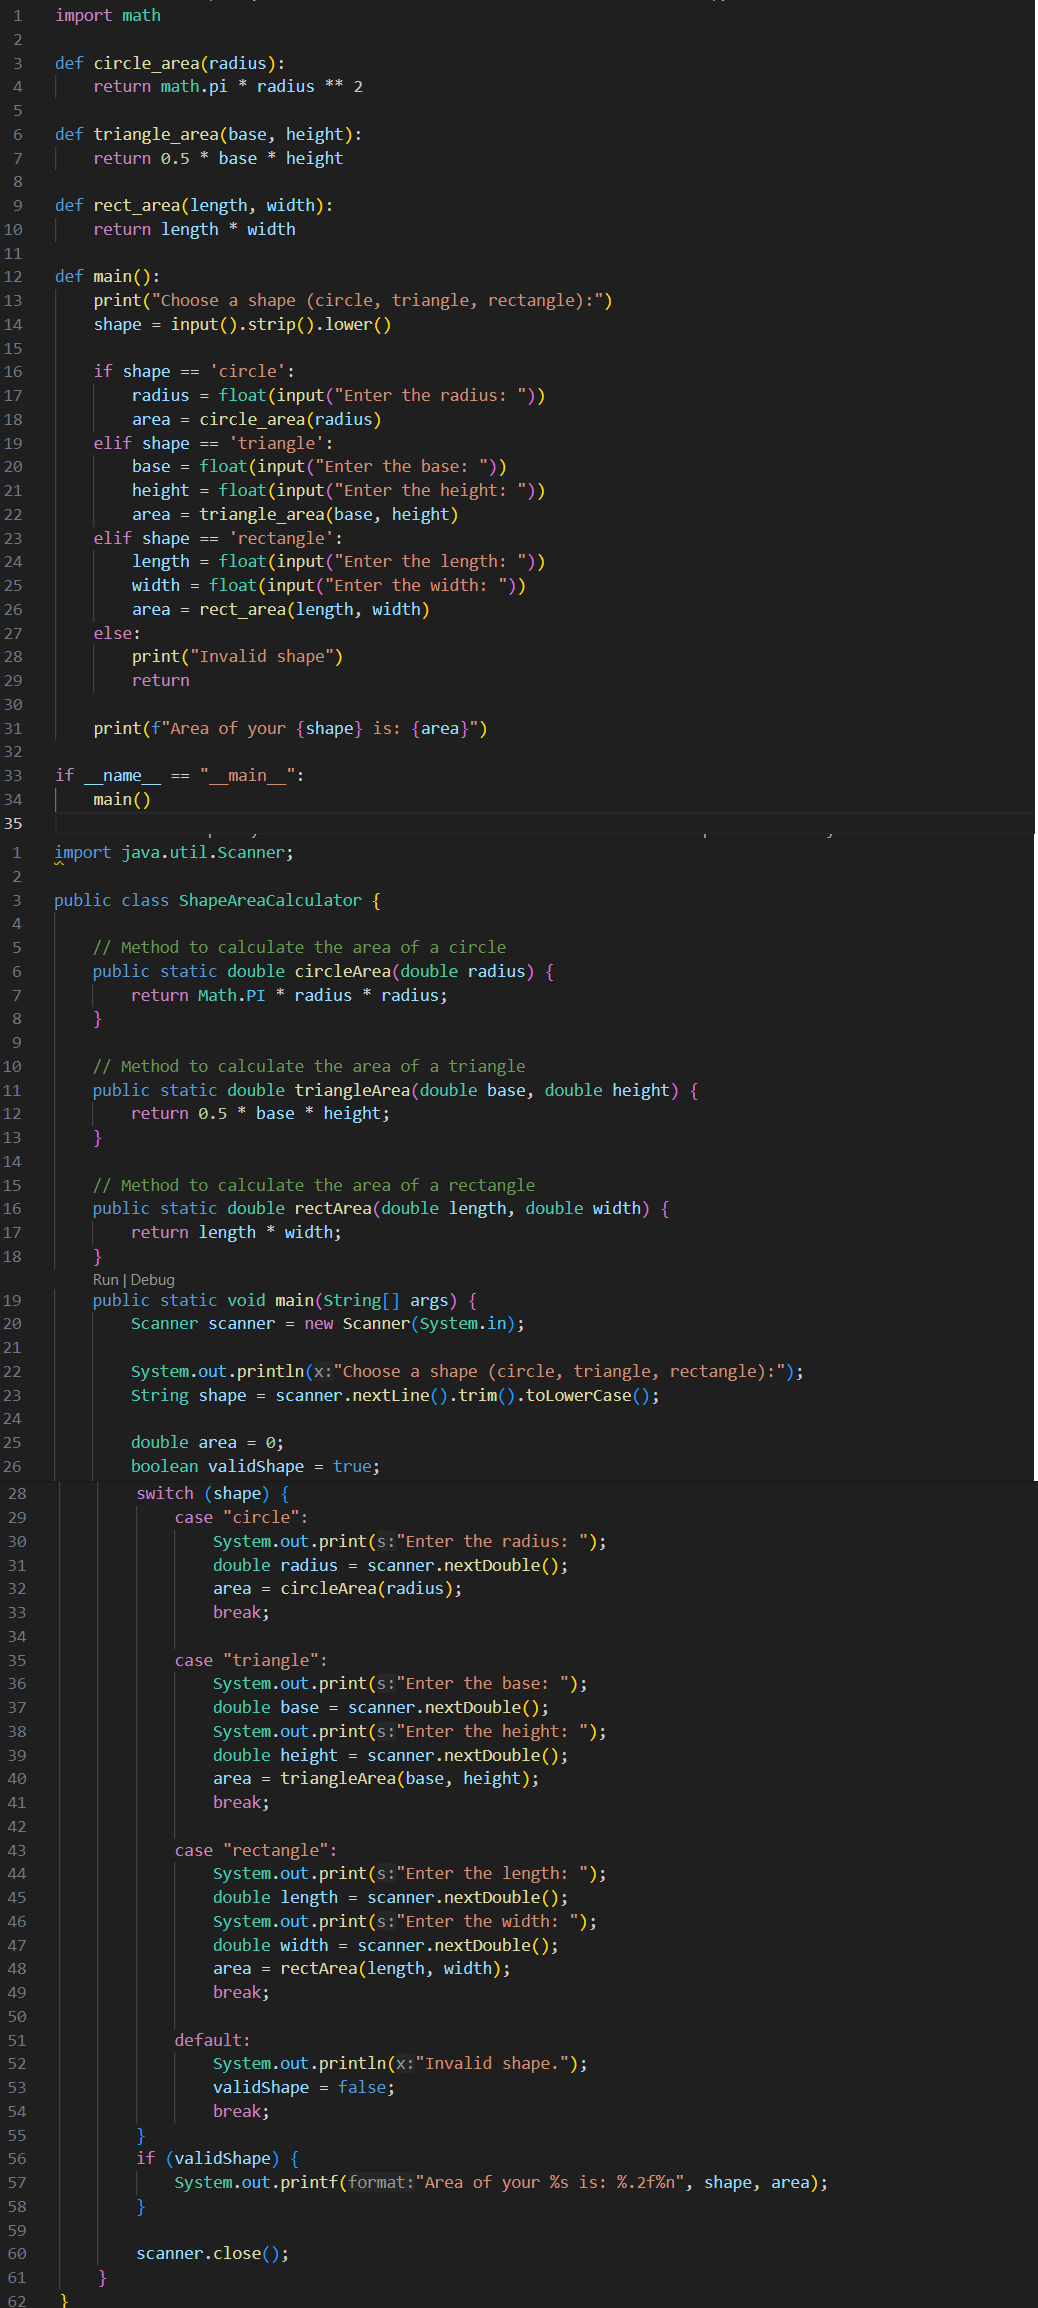
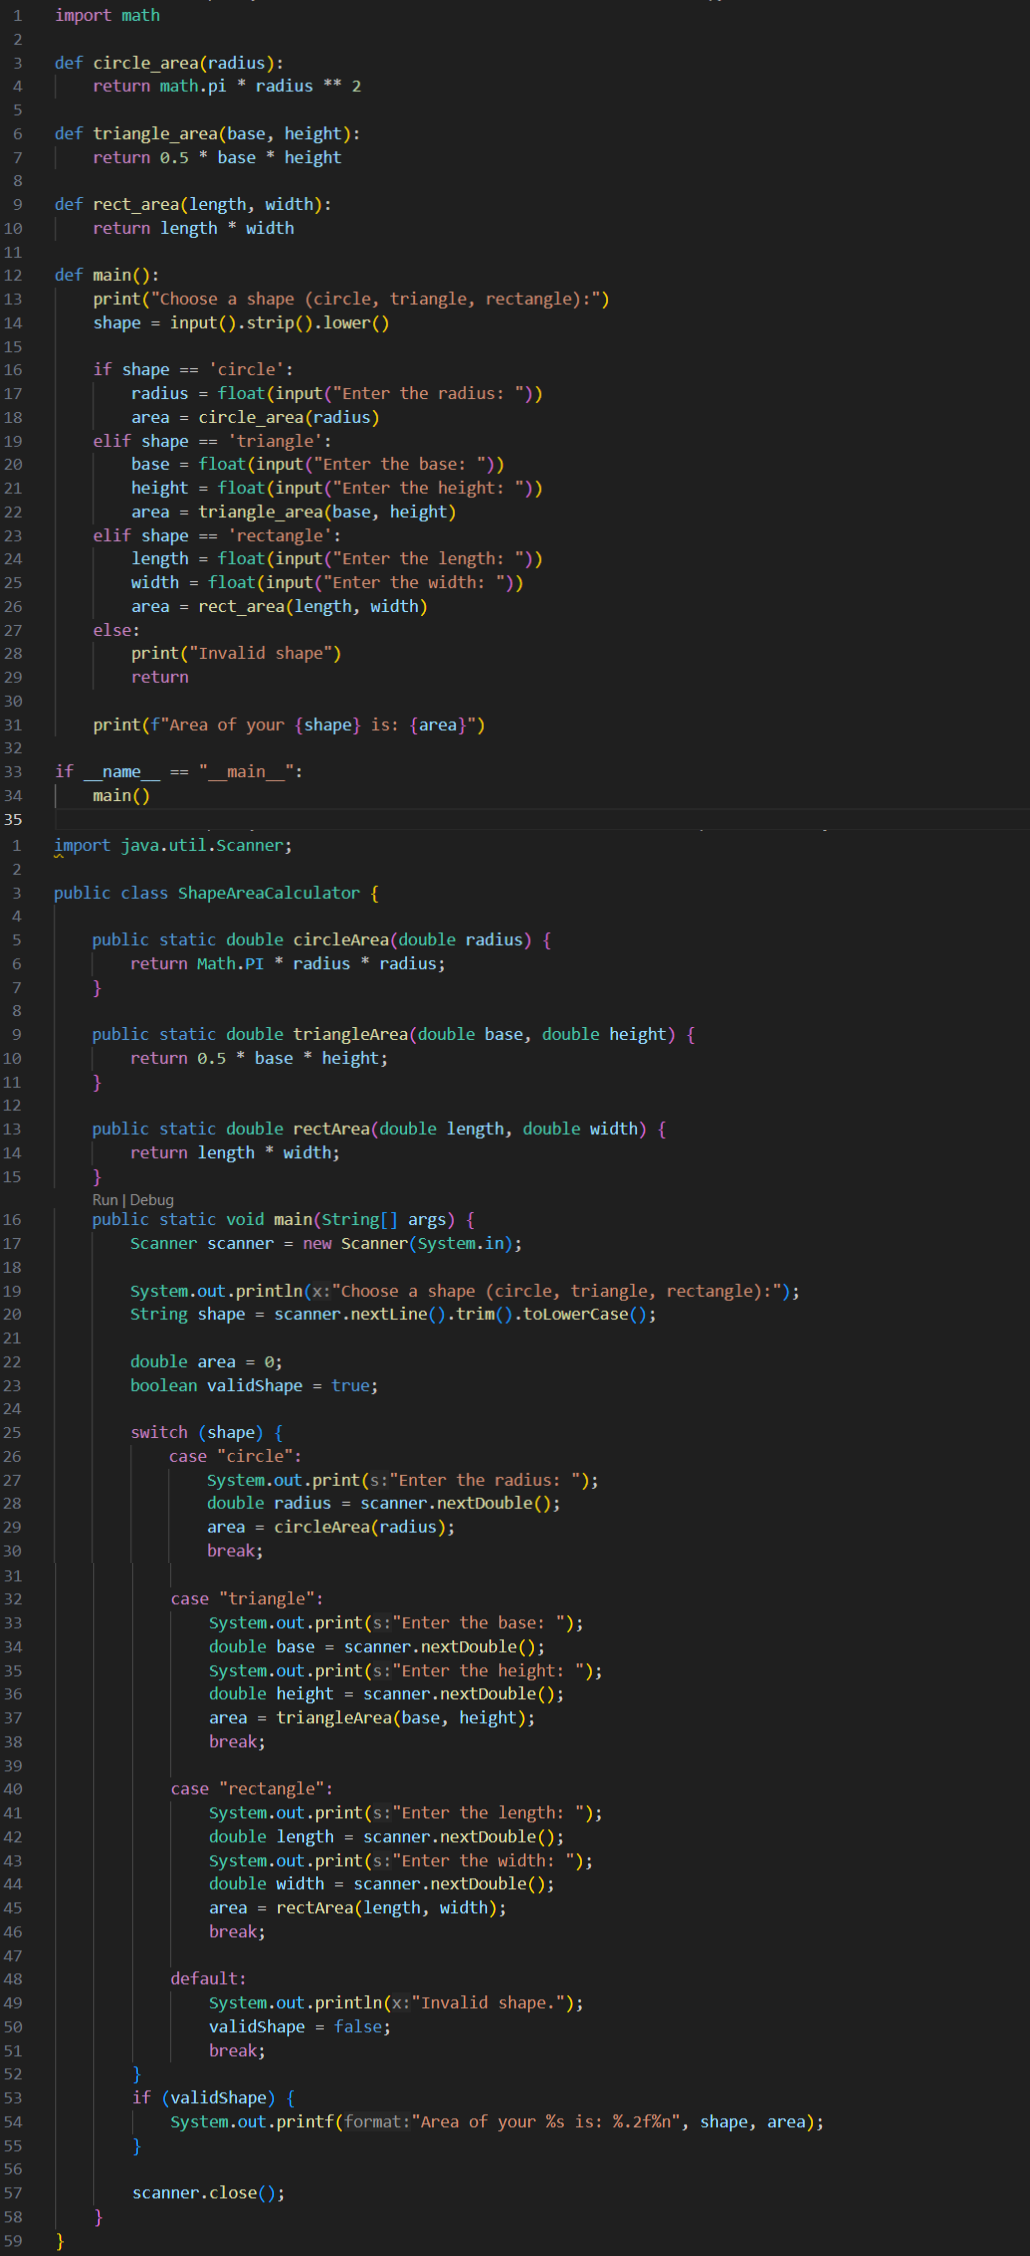
REGRESSION

diff --git a/CODE PORTFOLIO/AREA CALCULATOR/ShapeAreaCalculator.java b/CODE PORTFOLIO/AREA CALCULATOR/ShapeAreaCalculator.java
@@ -2,17 +2,14 @@ import java.util.Scanner;
 
 public class ShapeAreaCalculator {
 
-    // Method to calculate the area of a circle
     public static double circleArea(double radius) {
         return Math.PI * radius * radius;
     }
 
-    // Method to calculate the area of a triangle
     public static double triangleArea(double base, double height) {
         return 0.5 * base * height;
     }
 
-    // Method to calculate the area of a rectangle
     public static double rectArea(double length, double width) {
         return length * width;
     }
